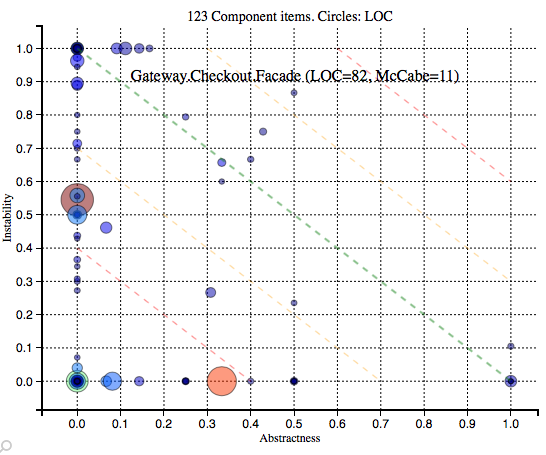
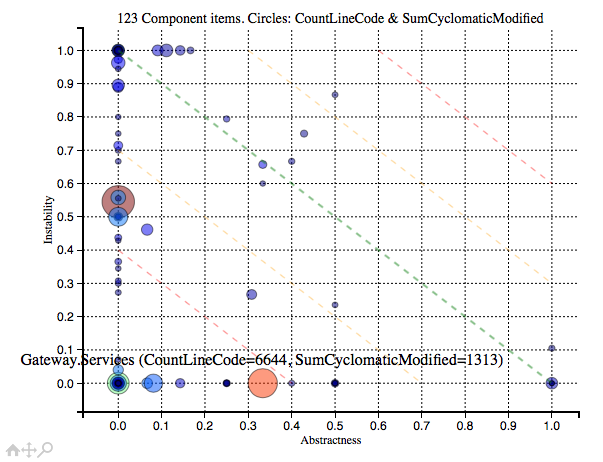
configurable column names for abstractness and instability

Changed region(s): [[0.0, 0.0, 0.9963, 0.9846], [0.0, 0.9538, 0.0934, 1.0]]

diff --git a/utilities/srcinstplot.py b/utilities/srcinstplot.py
@@ -3,10 +3,10 @@
 Usage:
   srcinstplot   --in=<inputCSV> \r\n \
                 [--nameColumn=<anInteger>] \r\n \
-                [--sizeColumn=<anInteger>] \r\n \
-                [--complexityColumn=<anInteger>] \r\n \
-                [--abstractnessColumn=<anInteger>] \r\n \
-                [--instabilityColumn=<anInteger>] \r\n \
+                [--sizeColumn=<columnName>] \r\n \
+                [--complexityColumn=<columnName>] \r\n \
+                [--abstractnessColumn=<columnName>] \r\n \
+                [--instabilityColumn=<columnName>] \r\n \
                 [--ballSizeMin=<ballSizeMin>] \r\n \
                 [--ballSizeMax=<ballSizeMax>] \r\n \
                 [--ballSizeRate=<ballSizeRate>]
@@ -17,8 +17,8 @@ Options:
     --abstractnessColumn=<columnName>   Name of the column in the CSV with the Abstractness values. [default: Abstractness]
     --instabilityColumn=<columnName>    Name of the column in the CSV with the Imstability values. [default: Instability]
     --nameColumn=<columnName>           Name of the column in the CSV with the component/package names. [default: Component]
-    --sizeColumn=<columnName>           Name of the column in the CSV with the component/package sizes. [default: Size]
-    --complexityColumn=<columnName>     Name of the column in the CSV with the component/package complexity. [default: Complexity]
+    --sizeColumn=<columnName>           Name of the column in the CSV with the component/package sizes. [default: CountLineCode]
+    --complexityColumn=<columnName>     Name of the column in the CSV with the component/package complexity. [default: SumCyclomaticModified]
     --ballSizeMin=<ballSizeMin>         Minimum size of the ball (when the metric is zero). [Default: 20]
     --ballSizeMax=<ballSizeMax>         Maximum size of the ball [Default: 5000]
     --ballSizeRate=<ballSizeRate>       Rate at which the ball size grows per unit of the metric. [Default: 0.1]
@@ -33,7 +33,7 @@ import datetime
 import os
 import csv
 from docopt import docopt
-from utilities.utils import save_normalized_scatter
+from utilities.utils import save_abstractness_x_instability_scatter
 
 def scatter_plot (cmdline_arguments):
     inputCSV = cmdline_arguments["--in"]
@@ -53,14 +53,14 @@ def scatter_plot (cmdline_arguments):
     with open(inputCSV, 'r') as csvfile:
         reader = csv.DictReader(csvfile)
         for row in reader:
-            annotations.append("%s (LOC=%i, McCabe=%i)" % (row[nameColumn],int(row[sizeColumn]),int(row[complexityColumn])))
-            x_values.append(float(row[abstractnessColumn]))
-            y_values.append(float(row[instabilityColumn]))
-            ball_values.append(min(ball_size_max, ball_size_rate * int(row[sizeColumn]) + ball_size_min))
+            annotations.append("%s (%s=%i, %s=%i)" % (row[nameColumn],sizeColumn,int(row.get(sizeColumn,0)),complexityColumn, int(row.get(complexityColumn,0))))
+            x_values.append(float(row.get(abstractnessColumn,0)))
+            y_values.append(float(row.get(instabilityColumn,0)))
+            ball_values.append(min(ball_size_max, ball_size_rate * int(row.get(sizeColumn,0)) + ball_size_min))
 
-            color_values.append(int(row[complexityColumn]))
-    file_name = save_normalized_scatter(x_values, abstractnessColumn, y_values, instabilityColumn, ball_values, "LOC",
-                             color_values, annotations, os.path.split(inputCSV)[-1], "Component")
+            color_values.append(int(row.get(complexityColumn,0)))
+    file_name = save_abstractness_x_instability_scatter(x_values, abstractnessColumn, y_values, instabilityColumn, ball_values, sizeColumn,
+                                                        color_values, complexityColumn, annotations, os.path.split(inputCSV)[-1], "Component")
     print("Saved %s" % file_name)
 
 

diff --git a/utilities/utils.py b/utilities/utils.py
@@ -118,7 +118,7 @@ def save_scatter(x_values, x_label, y_values, y_label, ball_values, ball_label, 
     mpld3.save_html(fig, filename)
     return filename
 
-def save_normalized_scatter(x_values, x_label, y_values, y_label, ball_values, ball_label, color_values, annotations, filename_prefix, scope_name, show_diagonal=True):
+def save_abstractness_x_instability_scatter(x_values, x_label, y_values, y_label, ball_values, ball_label, color_values, color_label, annotations, filename_prefix, scope_name, show_diagonal=True):
     #plt.figure()  # new one, or they will be mixed
     fig, ax = plt.subplots()
     ax.set_xticks([0.0, 0.1, 0.2, 0.3, 0.4, 0.5, 0.6, 0.7, 0.8, 0.9, 1.0]) # http://stackoverflow.com/questions/8209568/how-do-i-draw-a-grid-onto-a-plot-in-python
@@ -136,7 +136,7 @@ def save_normalized_scatter(x_values, x_label, y_values, y_label, ball_values, b
     scatter = ax.scatter(x_values, y_values, ball_values, alpha=0.5, c=color_values)
     plt.xlabel(x_label)
     plt.ylabel(y_label)
-    plt.title("%i %s items. Circles: %s" % (len(x_values), scope_name, ball_label))
+    plt.title("%i %s items. Circles: %s & %s" % (len(x_values), scope_name, ball_label, color_label))
     tooltip = mpld3.plugins.PointLabelTooltip(scatter, labels=annotations)
     mpld3.plugins.connect(fig, tooltip)
     filename = "%s-scatter-%s-%s_%s_%s.html" % (filename_prefix, scope_name, x_label, y_label, ball_label)

diff --git a/README.md b/README.md
@@ -241,18 +241,21 @@ srcinstplot --in=instability-myProject.csv
  The CSV file should look like this:
 
 ```
-Component,Size,Complexity,Efferent Coupling,Afferent Coupling,Instability,Classes,Abstract Classes,Abstractness,Distance,Normalized Distance
+Component,CountLineCode,SumCyclomaticModified,Efferent Coupling,Afferent Coupling,Instability,Classes,Abstract Classes,Abstractness,Distance,Normalized Distance
 foo.bar,44,2,0,6,0.000000,2,0,0.000000,0.707107,1.000000
 ... 
 ...
 ```
 
 The Component column will have the names of your components - package names (Java) or namespace names (C#) or Units (Pascal).
+The second and third column can have any names - they should represent metrics for Size (circle sizes in the graph)
+and Complexity (circle colors in the graph).
+
 The result should look like the graph below.
 
 ![Instability plot for a project](example-instability.png)
 
-If you roll the mouse on the circles, their names are shown, as well as the metrics that represent the cicrcle size and
+If you roll the mouse on the circles, their names are shown, as well as the metrics that represent the circle size and
 the circle color. Run the utility with -h for a detailed description of the parameters.
  
 We also have a tool that generates such CSV files from an Understand UDB file, but it is not Open Source.
